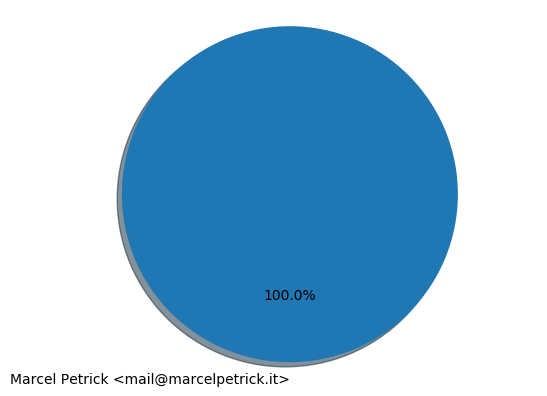
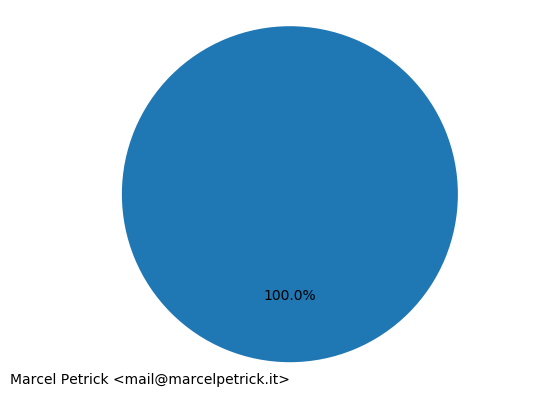
GitShortlogToPieChart: no merges; no shadows

diff --git a/GitShortlogToPieChart/GitShortlogToPieChart.py b/GitShortlogToPieChart/GitShortlogToPieChart.py
@@ -55,7 +55,7 @@ def renderPieChart(fileContentDict):
                 #explode=explode,
                 labels=labels,
                 autopct='%1.1f%%',
-                shadow=True,
+                shadow=False,
                 startangle=90)
         ax1.axis('equal')  # Equal aspect ratio ensures that pie is drawn as a circle.
 
@@ -69,8 +69,8 @@ def invokeGit():
         # call "git shortlog -sne --no-merges" and get the output; check for this at the upload-script
         import subprocess
         git = subprocess.Popen(
-                #["mspaint.exe"], # does at least this work? yes :/
-                ["git", "shortlog", "HEAD", "-sne"], # hint: the commit to checkout was missing, so it failed, it was not the minus!
+                # hint: the commit to checkout was missing, so it failed, it was not the minus!
+                ["git", "shortlog", "HEAD", "-sne", "--no-merges"],
                 stdout=subprocess.PIPE,
                 stderr=subprocess.PIPE,
                 shell=True
@@ -79,7 +79,6 @@ def invokeGit():
         # check the return code for errors
         if git.returncode != 0:
                 raise Exception(f"Something failed while invoking the git-command. Returncode: {git.returncode}")
-                # Exception: Something failed while invoking the git-command. Returncode: 1; same happens with subprocess.run .. I guess the problem is that the git cmd is not resolved?!?
 
         # just for checking
         stdOut = stdout.decode('utf-8') # utf-8/ascii
